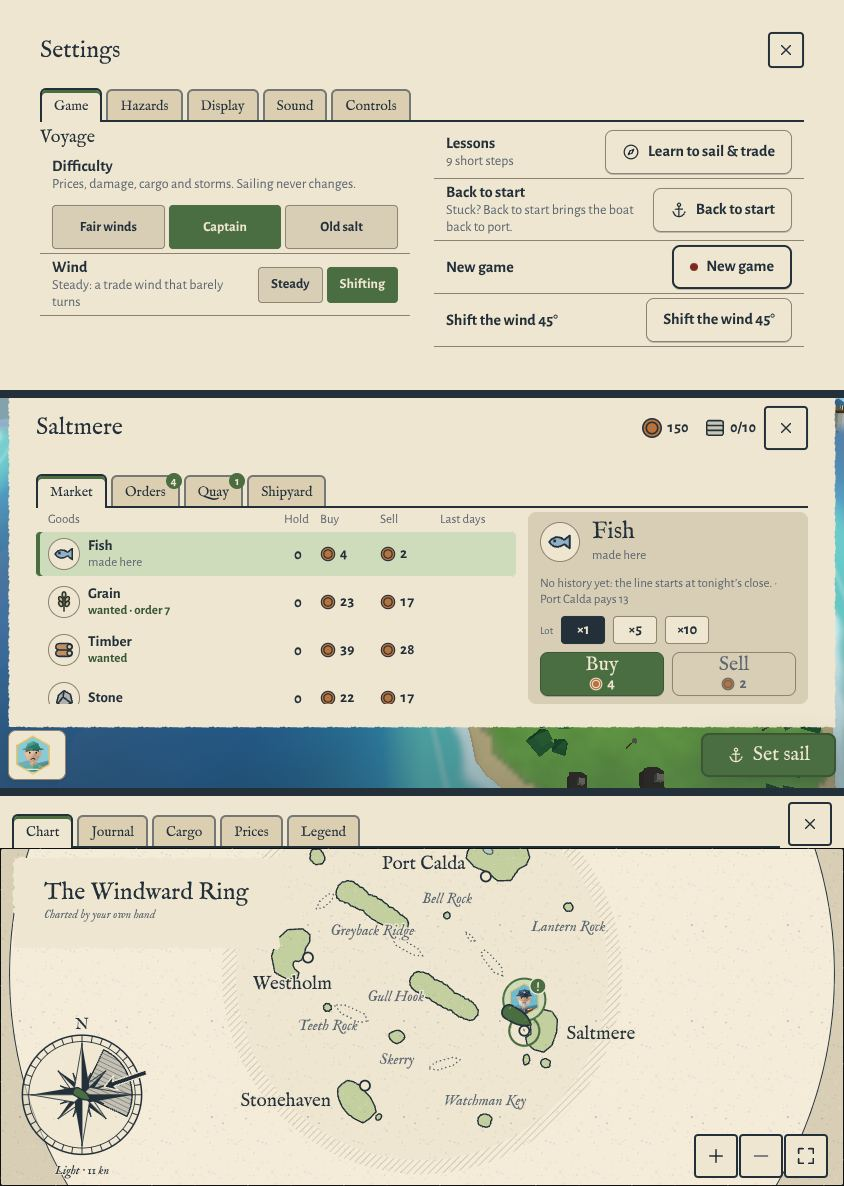
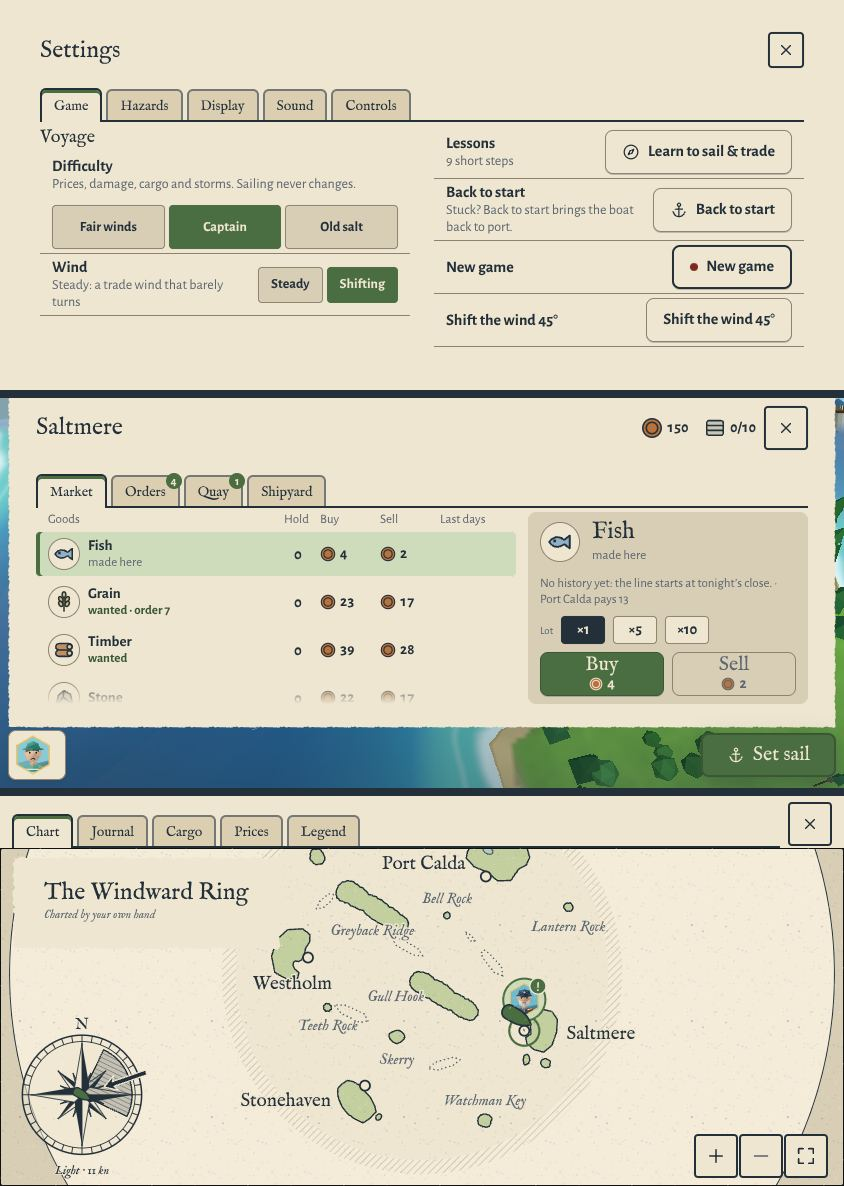
Ink mark on danger buttons; fade the harbour list's foot on phones as a scroll hint
Claude-Session: https://claude.ai/code/session_013jvdBvYqFyHBf6tPtHmhV8

diff --git a/src/ui/harbour/harbour.css b/src/ui/harbour/harbour.css
@@ -316,6 +316,11 @@ html[data-layout='phone'] .hb-pane {
   gap: var(--ui-space-3);
   padding-block: var(--ui-space-1) var(--ui-space-2);
 }
+/* The list scrolls on a phone: its foot fades out as a hint that more rows wait below. */
+html[data-layout='phone'] .hb-list {
+  padding-bottom: var(--ui-space-5);
+  mask-image: linear-gradient(to bottom, #000 calc(100% - var(--ui-space-5)), transparent);
+}
 html[data-layout='phone'] .hb-detail {
   width: var(--ui-harbour-detail-phone);
   gap: var(--ui-space-2);

diff --git a/src/ui/components/components.css b/src/ui/components/components.css
@@ -44,7 +44,7 @@
   width: var(--ui-space-2);
   height: var(--ui-space-2);
   border-radius: var(--ui-radius-pill);
-  background: var(--ui-danger);
+  background: var(--ui-ink);
 }
 .ui-btn[aria-disabled='true'] {
   border-color: var(--ui-rule);
